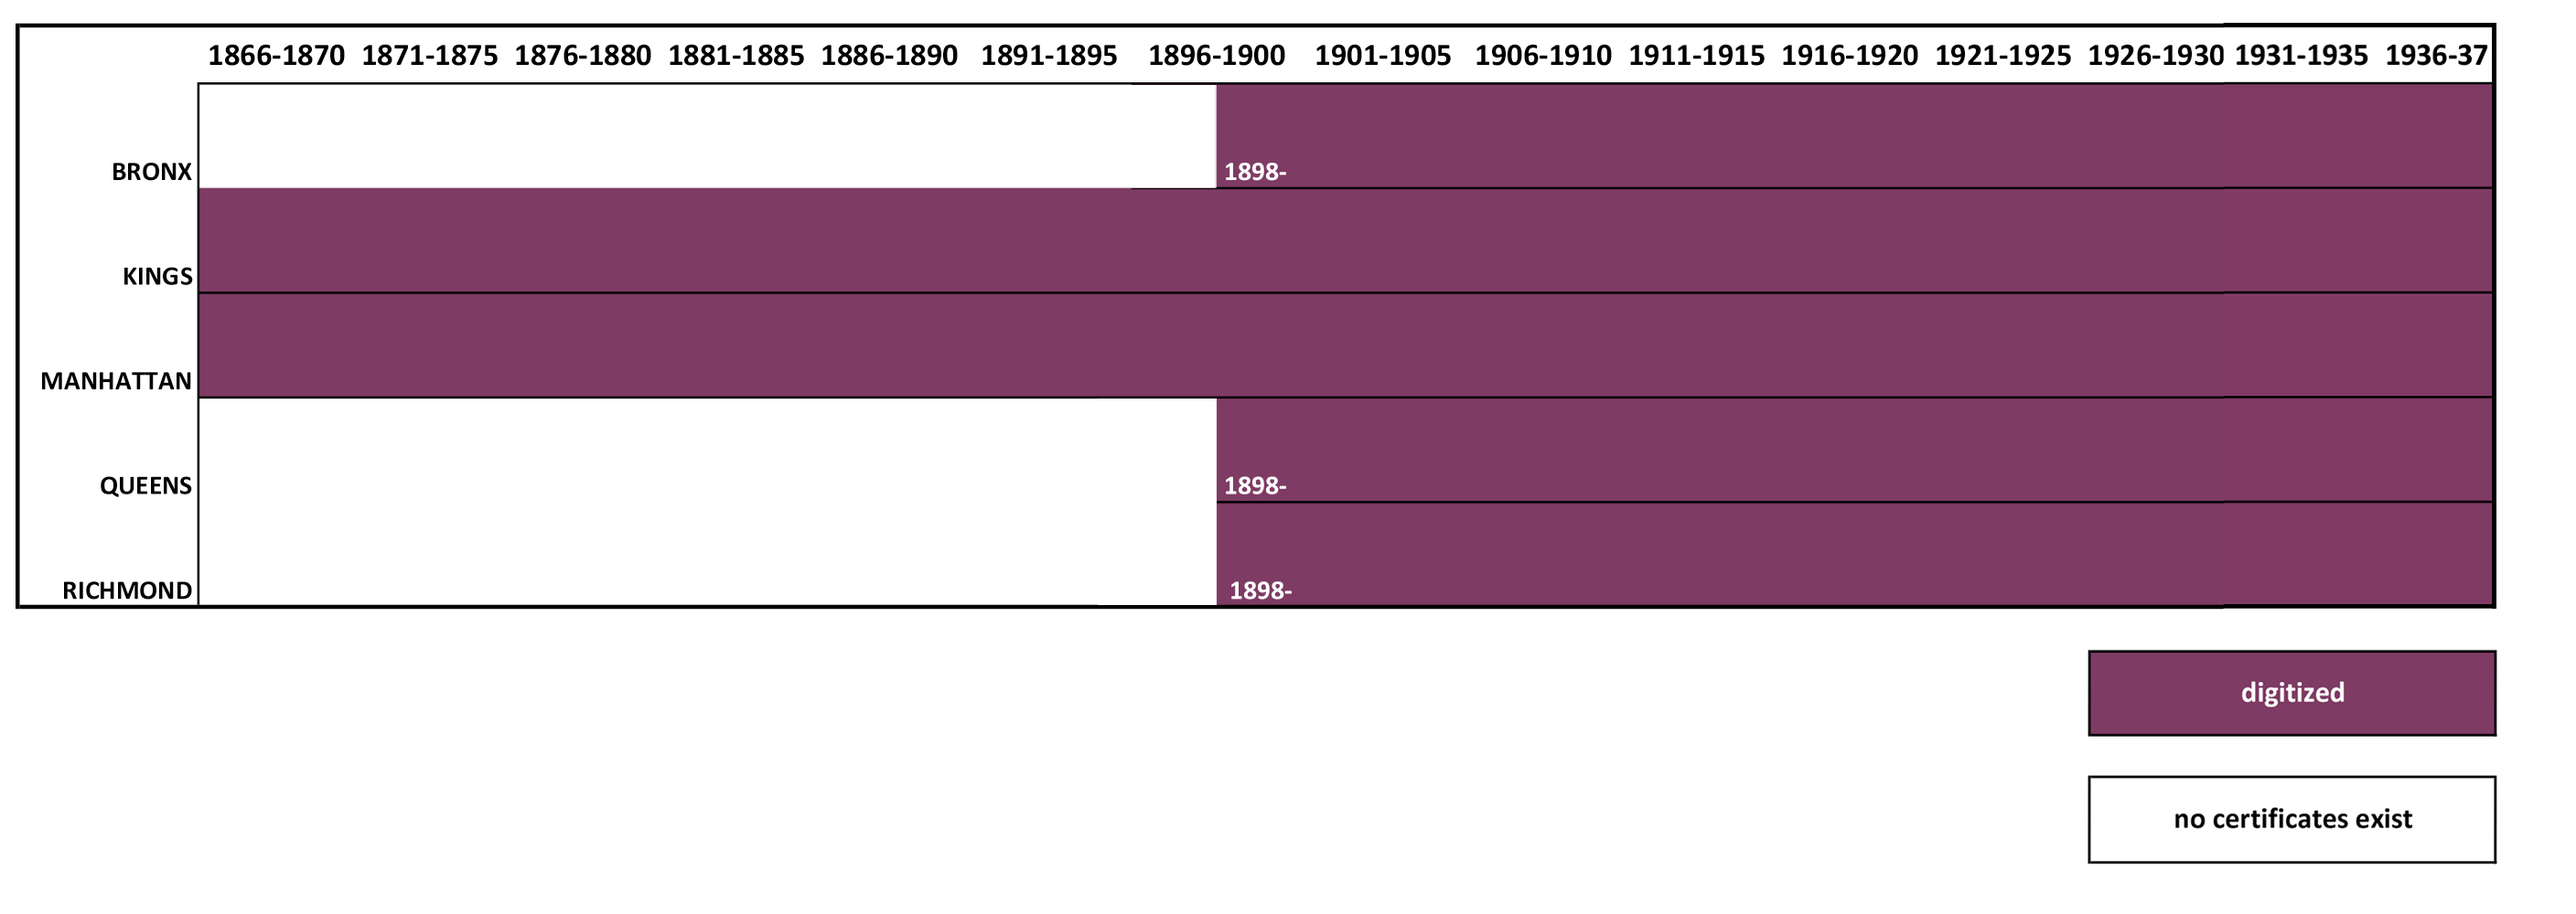
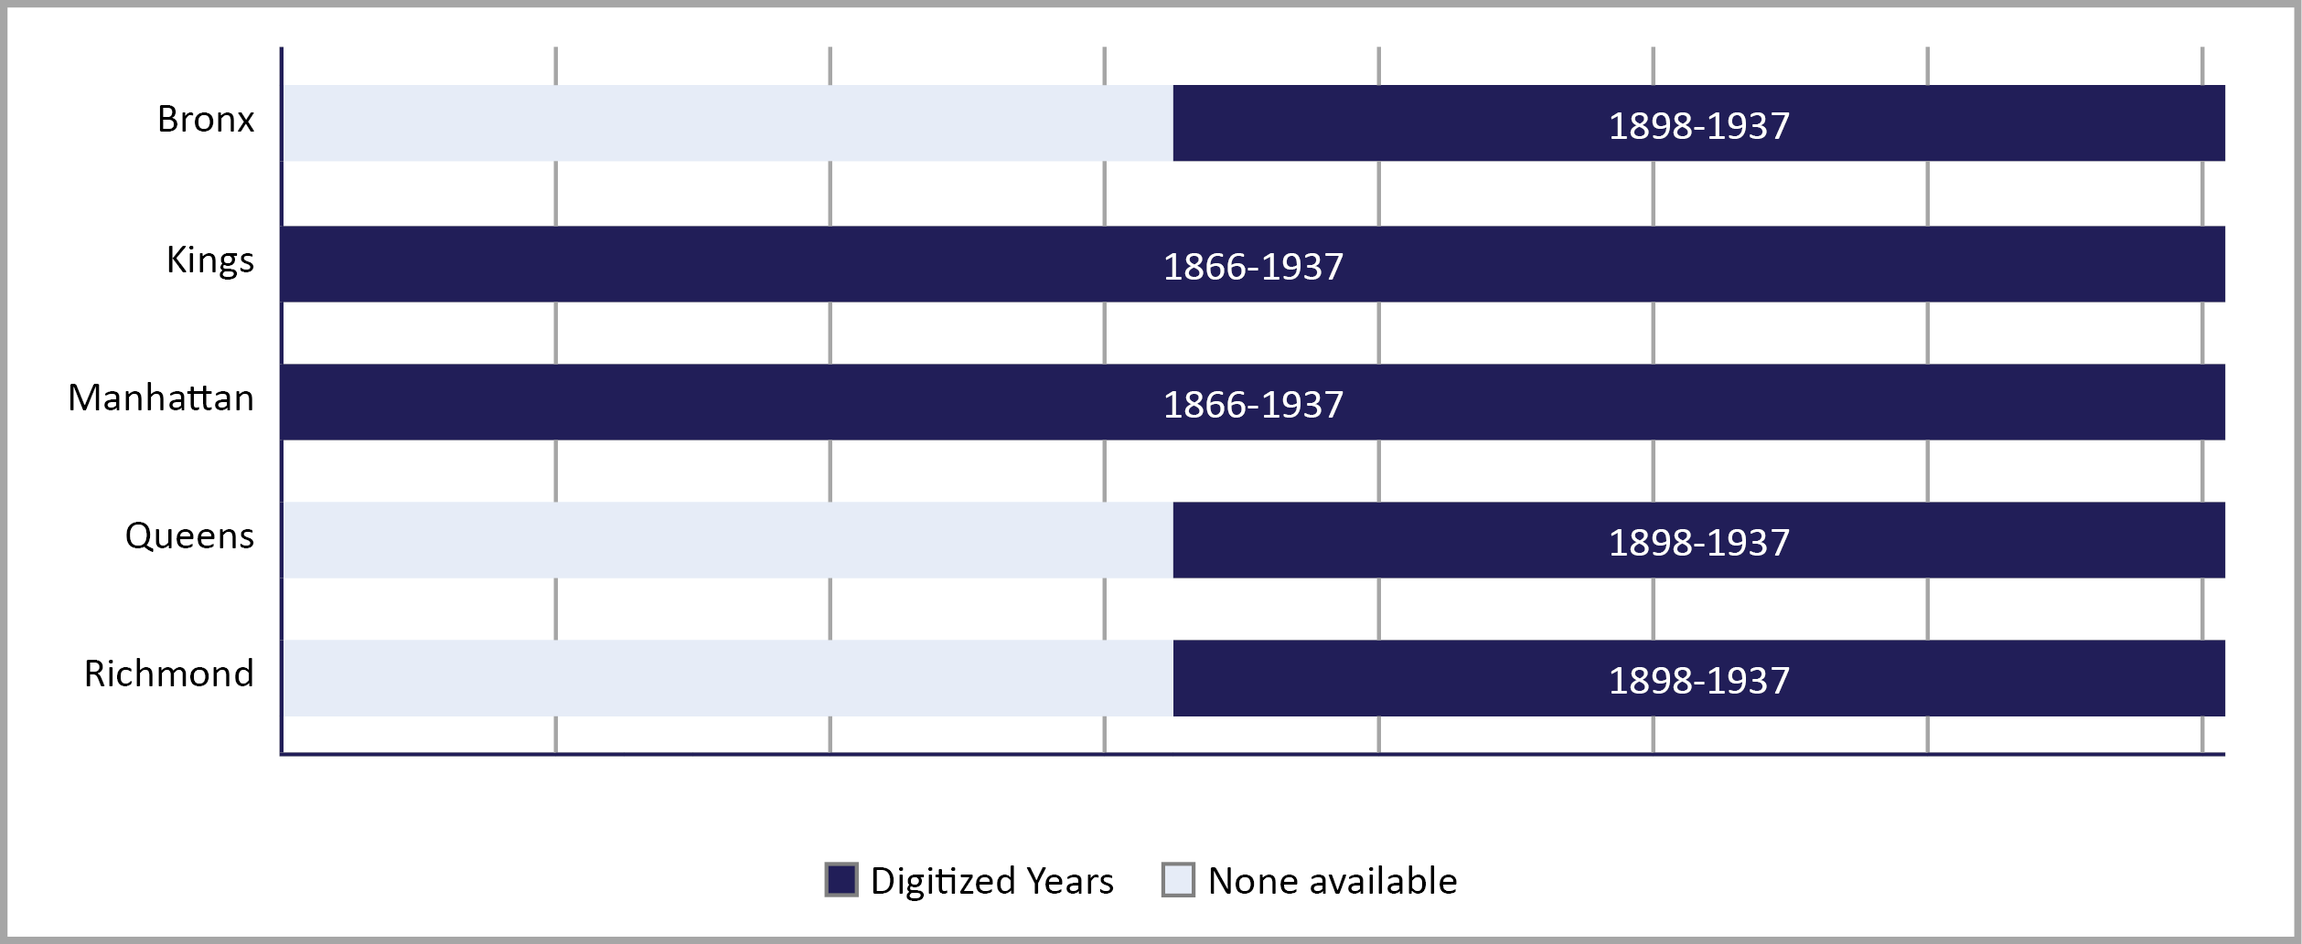
Updated charts in digital vital records page

diff --git a/vro/templates/public/digital_vital_records.html b/vro/templates/public/digital_vital_records.html
@@ -34,17 +34,24 @@
                     <div class="tab-pane fade show active pt-2" id="births-tab" role="tabpanel"
                          aria-labelledby="births">
                         <h3 class="h5 py-1">Digitized Birth Records</h3>
-                        <b>Bronx:</b> 1872 to 1873 and 1898 to 1909 <b>Kings:</b> 1866 to 1897 <b>Manhattan:</b> 1866 to
-                        1897
-                        <b>Queens:</b>
-                        1898 to 1909 <b>Richmond:</b> 1898 to 1909
-                        <img src="{{ static_url_for('static', filename='img/birth-chart.png') }}" width="90%">
+                        <span>
+                            <b>Bronx:</b> 1872 to 1873 and 1876 and 1888 to 1891 and 1895 to 1909
+                            <b>Kings:</b> 1866 to 1897
+                            <b>Manhattan:</b> 1855 and 1857 to 1861 and 1863 to 1865 and 1866 to 1909
+                            <b>Queens:</b> 1866 and 1857 to 1861 and 1863 to 1865 and 1866 to 1909
+                            <b>Richmond:</b> 1898 to 1909
+                        </span>
+                        <img src="{{ static_url_for('static', filename='img/birth-chart.png') }}">
                     </div>
                     <div class="tab-pane fade pt-2" id="deaths-tab" role="tabpanel" aria-labelledby="deaths">
                         <h3 class="h5 py-1">Digitized Death Records</h3>
-                        <b>Bronx:</b> 1898 to 1948 <b>Kings:</b> 1861 to 1948 <b>Manhattan:</b> 1866 to 1867 and 1920 to
-                        1923 <b>Queens:</b>
-                        1898 to 1948 <b>Richmond:</b> 1898 to 1948
+                        <span>
+                            <b>Bronx:</b> 1898 to 1948
+                            <b>Kings:</b> 1862 to 1948
+                            <b>Manhattan:</b> 1866 to 1867 and 1871 to 1875 and 1920 to 1930
+                            <b>Queens:</b> 1898 to 1948
+                            <b>Richmond:</b> 1898 to 1948
+                        </span>
                         <img src="{{ static_url_for('static', filename='img/death-chart.png') }}">
                     </div>
                     <div class="tab-pane fade pt-2" id="marriages-tab" role="tabpanel" aria-labelledby="marriages">
@@ -60,18 +67,24 @@
                             however, the City Clerk licenses include additional information about the couple’s parents
                             and occupations.</p>
                         <h3 class="h5 py-1">Digitized Marriage Certificates</h3>
-                        <b>Bronx:</b> 1898 to 1937 <b>Kings:</b> 1866 to 1937 <b>Manhattan:</b> 1866 to 1937
-                        <b>Queens:</b>
-                        1898 to 1937 <b>Richmond:</b> 1898 to 1937
+                        <span>
+                            <b>Bronx:</b> 1898 to 1937
+                            <b>Kings:</b> 1866 to 1937
+                            <b>Manhattan:</b> 1866 to 1937
+                            <b>Queens:</b> 1898 to 1937
+                            <b>Richmond:</b> 1898 to 1937
+                        </span>
                         <img src="{{ static_url_for('static', filename='img/marriage-chart.png') }}">
                         <hr>
                         <h3 class="h5 py-1">Digitized Marriage Licenses</h3>
-                        <b>Bronx:</b> Not yet digitized <b>Kings:</b> 1938 to 1949 <b>Manhattan:</b> 1908 to 1910, 1938
-                        to 1949 <b>Queens:</b> 1938 to
-                        1947 <b>Richmond:</b>
-                        1908 to 1947
-                        <p><img src="{{ static_url_for('static', filename='img/marriage-license-chart.png') }}"
-                                width="75%"></p>
+                        <span>
+                            <b>Bronx:</b> Not yet digitized
+                            <b>Kings:</b> 1938 to 1949
+                            <b>Manhattan:</b> 1908 to 1910 and 1938 to 1949
+                            <b>Queens:</b> 1938 to 1947
+                            <b>Richmond:</b> 1908 to 1947
+                        </span>
+                        <img src="{{ static_url_for('static', filename='img/marriage-license-chart.png') }}">
                     </div>
                 </div>
             </div>
